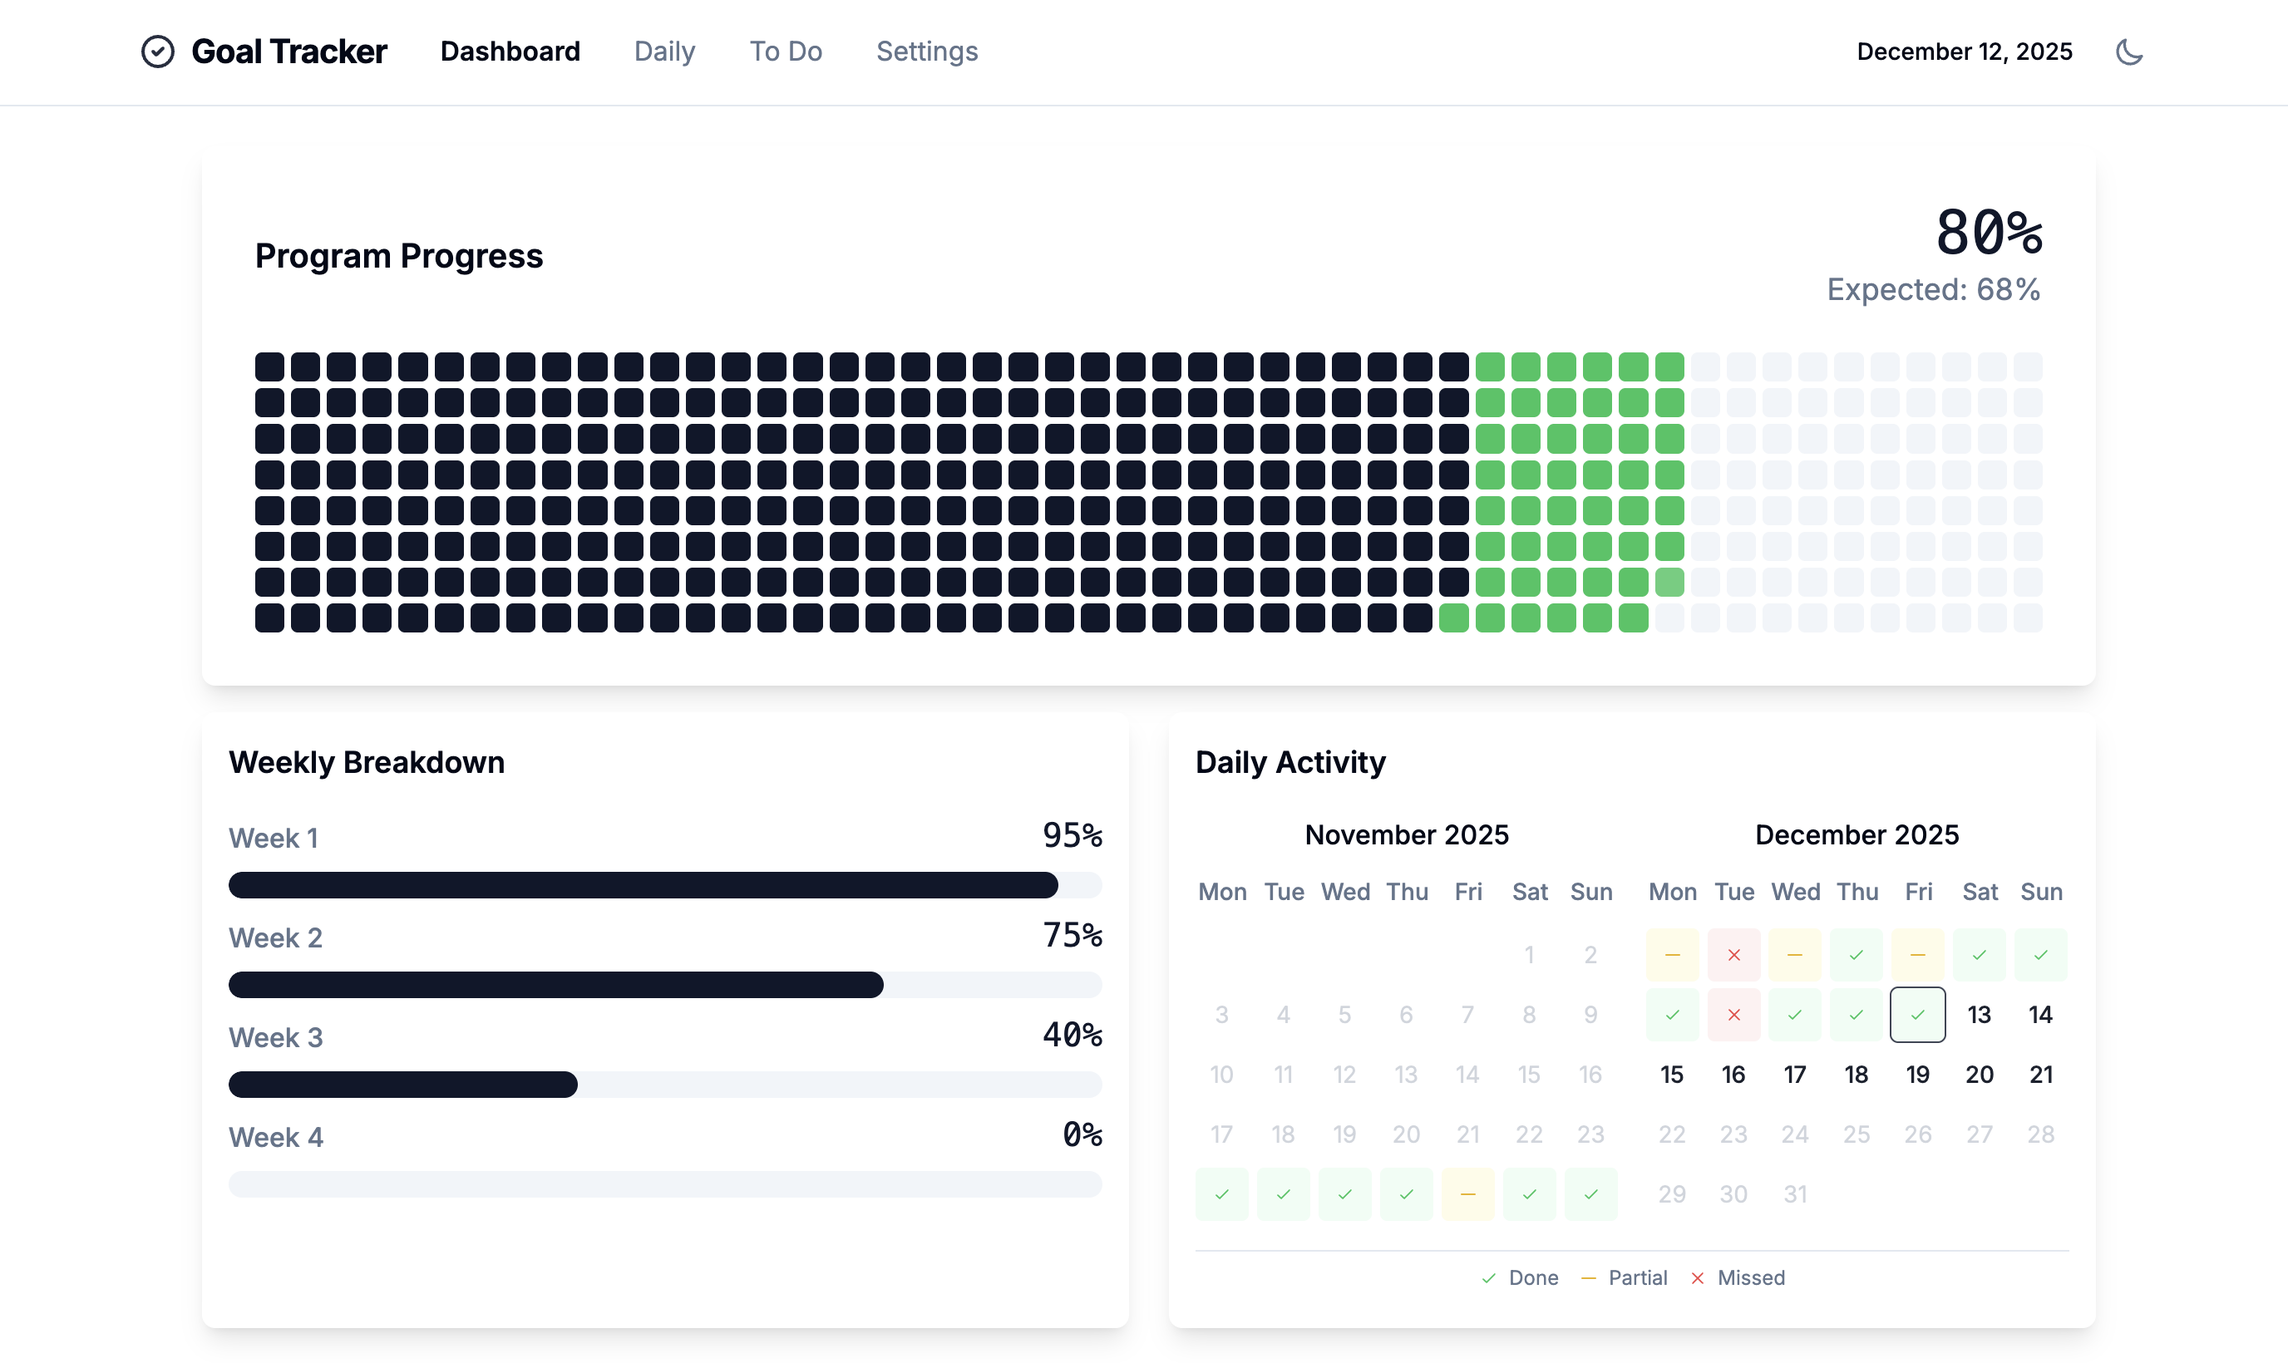
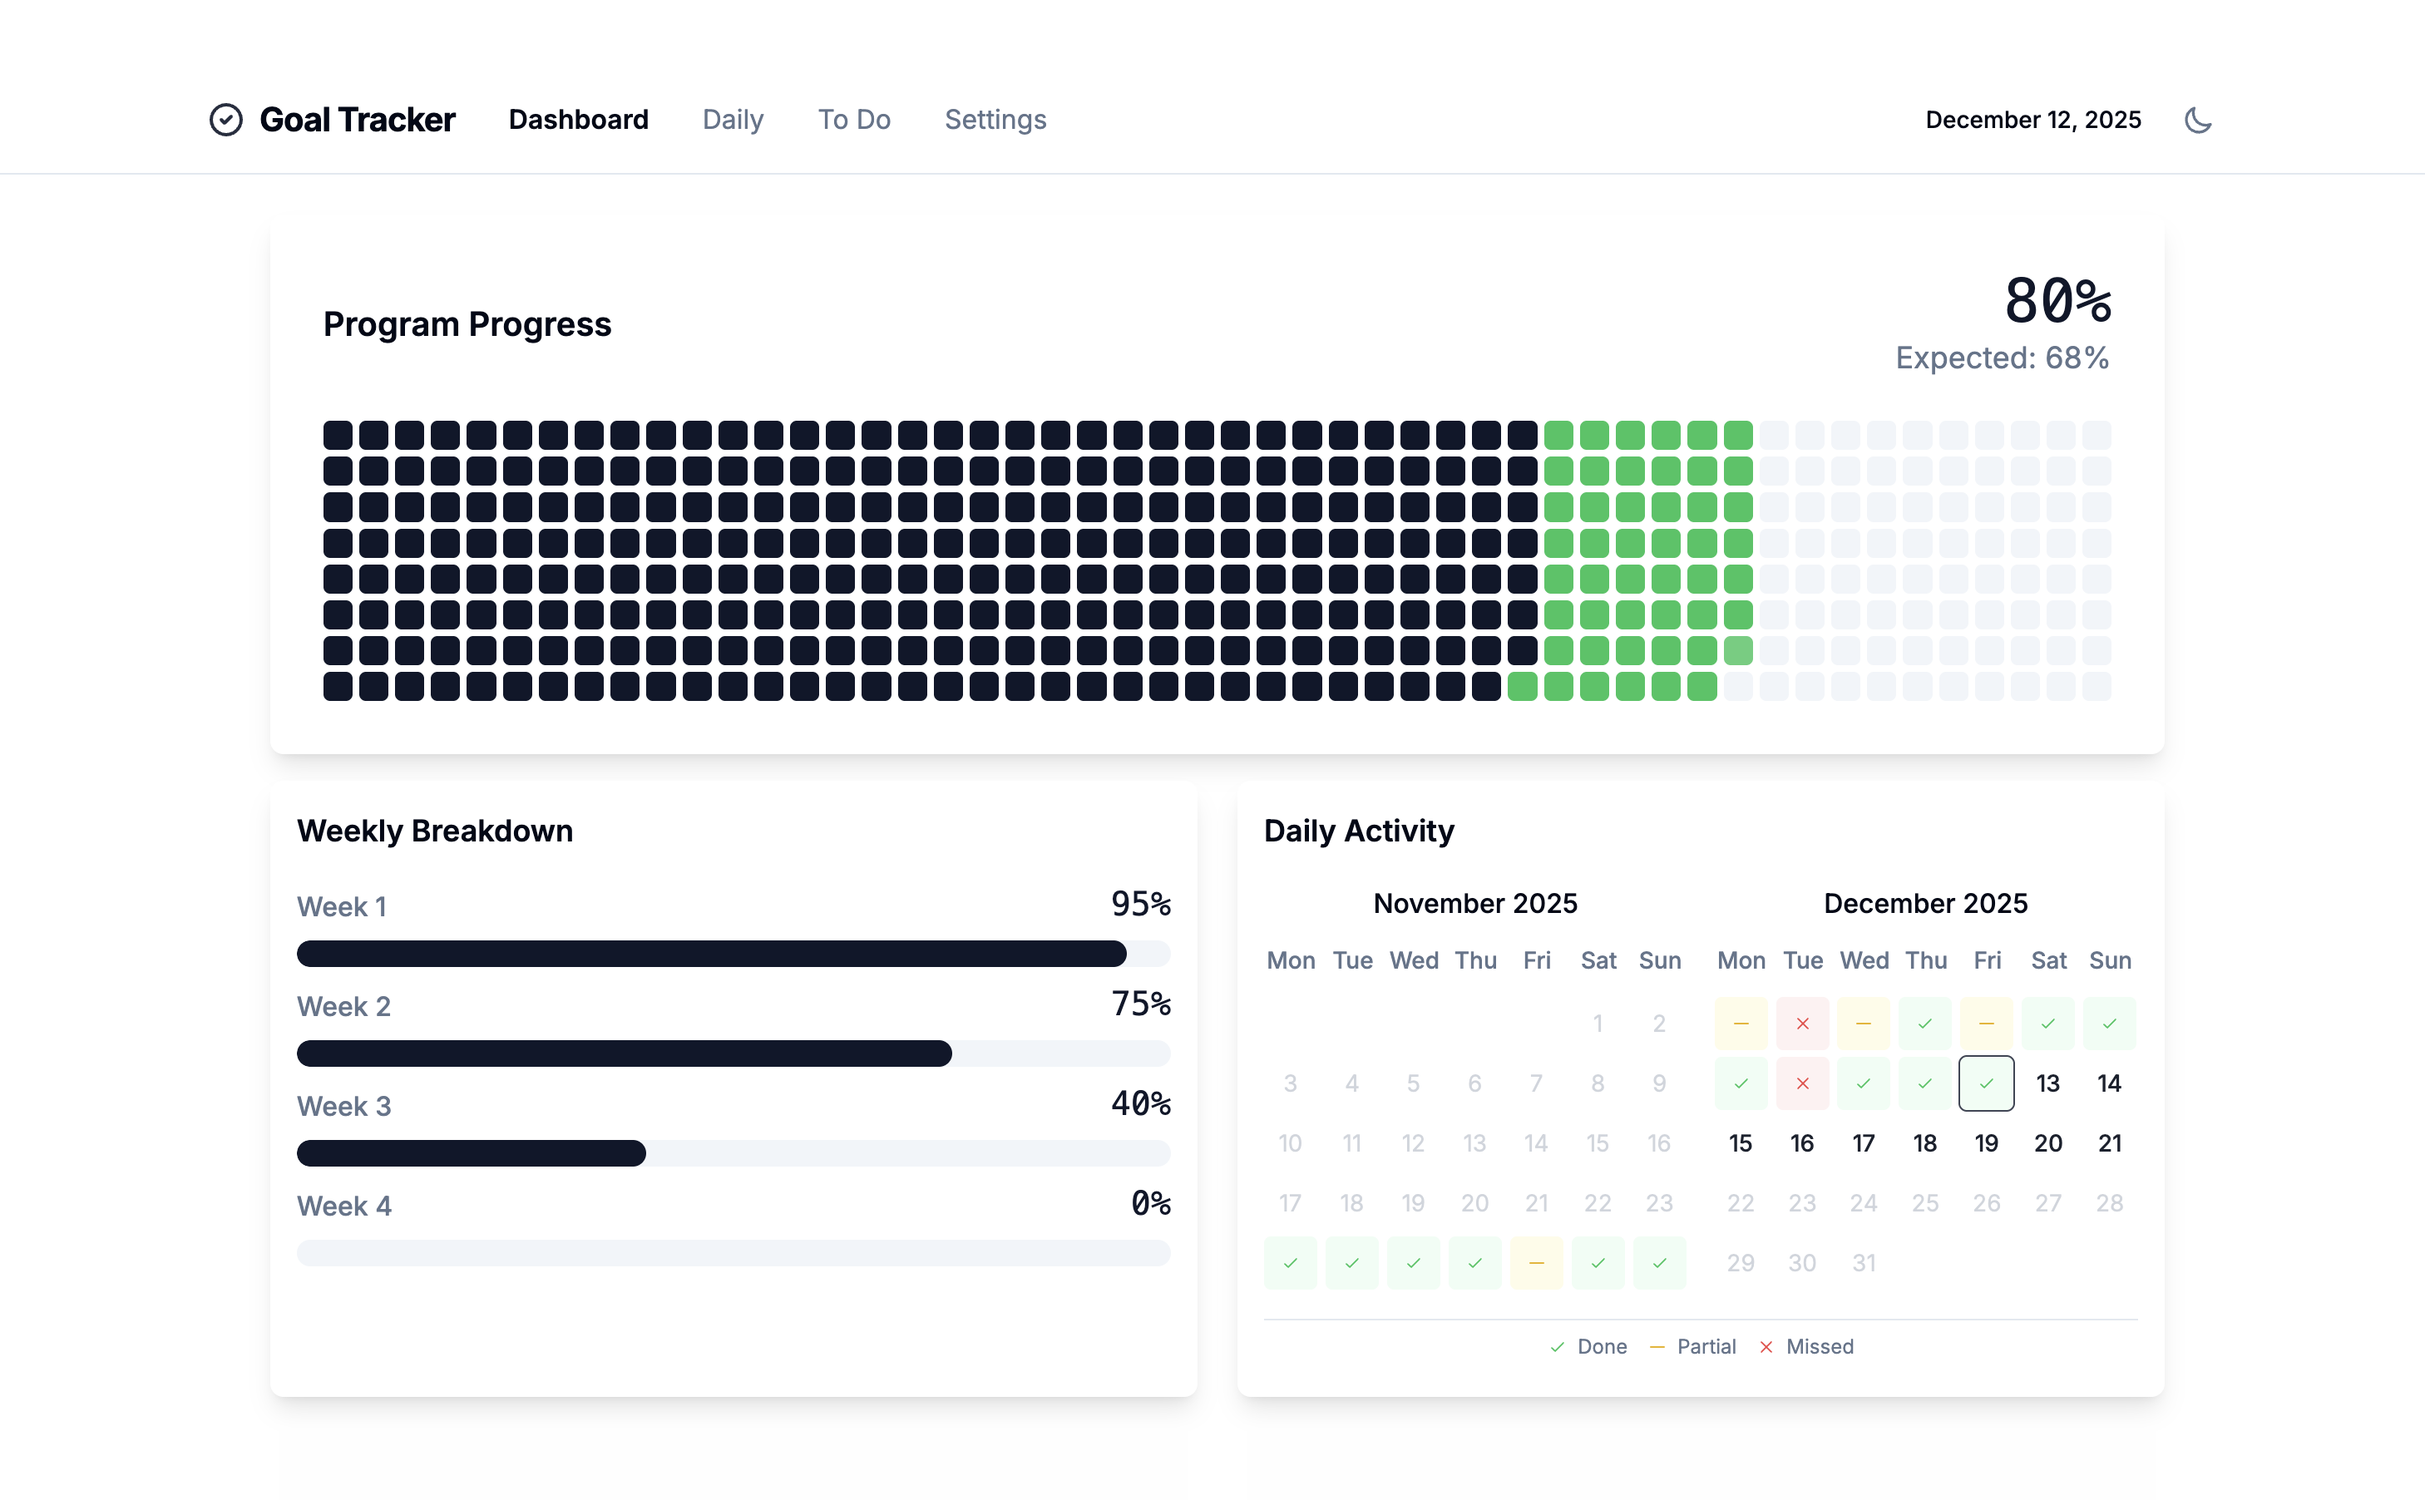
feat: add border to images

diff --git a/index.html b/index.html
@@ -88,7 +88,7 @@
         
         <button id="scroll-to-projects" class="absolute bottom-24 md:bottom-12 left-1/2 transform -translate-x-1/2 animate-bounce cursor-pointer opacity-0 transition-opacity duration-500" aria-label="Scroll to projects">
             <svg class="w-8 h-8 text-gray-400" fill="none" stroke="currentColor" viewBox="0 0 24 24">
-                <path stroke-linecap="round" stroke-linejoin="round" stroke-width="2" d="M19 14l-7 7m0 0l-7-7m7 7V3"></path>
+                <path stroke-linecap="round" stroke-linejoin="round" stroke-width="2" d="M19 9l-7 7-7-7"></path>
             </svg>
         </button>
     </section>

diff --git a/border.py b/border.py
@@ -1,0 +1,70 @@
+import cv2
+import os
+import glob
+import argparse
+
+
+def add_border(image_path):
+    """Adds a 5% replicated border to an image"""
+    try:
+        # Read the image
+        img = cv2.imread(image_path, cv2.IMREAD_UNCHANGED)
+        if img is None:
+            print(f"Error: Could not read image {image_path}")
+            return
+
+        h, w = img.shape[:2]
+
+        # Calculate the padding (5% of the smallest dimension)
+        pad = int(0.05 * min(h, w))
+
+        # Apply padding by replicating the borders
+        out = cv2.copyMakeBorder(img, pad, pad, pad, pad, cv2.BORDER_REPLICATE)
+
+        # Save the image, overwriting the original
+        cv2.imwrite(image_path, out)
+        print(f"Processed and saved image: {image_path}")
+
+    except Exception as e:
+        print(f"An error occurred while processing {image_path}: {e}")
+
+
+def main():
+    parser = argparse.ArgumentParser(
+        description="Enlarge image(s) by adding a 5% replicated border."
+    )
+    group = parser.add_mutually_exclusive_group(required=True)
+    group.add_argument("-i", "--image", help="Path to a specific image to process.")
+    group.add_argument(
+        "-a",
+        "--all",
+        action="store_true",
+        help="Process all .png images in the 'media' directory.",
+    )
+
+    args = parser.parse_args()
+
+    if args.image:
+        if os.path.isfile(args.image):
+            add_border(args.image)
+        else:
+            print(f"Error: File not found at '{args.image}'")
+    elif args.all:
+        media_dir = "media"
+        if not os.path.isdir(media_dir):
+            print(f"The directory '{media_dir}' does not exist.")
+            return
+
+        image_paths = glob.glob(os.path.join(media_dir, "*.png"))
+        if not image_paths:
+            print(f"No .png images found in the '{media_dir}' directory.")
+            return
+
+        print(f"{len(image_paths)} images found. Starting processing...")
+        for path in image_paths:
+            add_border(path)
+        print("All images have been processed.")
+
+
+if __name__ == "__main__":
+    main()
